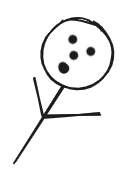
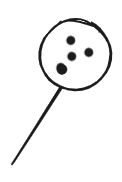
correct guesses are displayed and displaying the wrong guesses

Changed region(s): [[0.0738, 0.0824, 0.9344, 0.9066], [0.4426, 0.1648, 0.7869, 0.4121]]

diff --git a/js/main.js b/js/main.js
@@ -1,6 +1,16 @@
 /*----- constants -----*/
 const wordArray = ['fun', 'running', 'sound', 'aaaaaaa'];
 
+// const spaceman = {
+//     '0': '',
+//     '1': '../images/1.png',
+//     '2': '../images/2.png',
+//     '3': '../images/3.png',
+//     '4': '../images/4.png',
+//     '5': '../images/5.png',
+//     '6': new URL('../images/6.png')
+// }
+
 /*----- state variables -----*/
 let guessesleft, playerguesses, secretWord;
 
@@ -9,23 +19,13 @@ const guess = document.querySelector('input');
 const message = document.querySelector('main > h1');
 const letters = document.getElementById('word');
 const letterguess = document.querySelector('input').value;
-const wrongletters = {};
+const wrongletters = [];
 
 /*----- event listeners -----*/
 document.getElementById('wordbuild').addEventListener('click', buildguess);
-// document.getElementById('guessselect').addEventListener('click', guessCheck(letterguess));
+
 document.querySelector('*').addEventListener('keypress', keyPressEvt);
 /*----- functions -----*/
-// function guessCheck() {
-//     secretWord.split('').forEach(char => {
-//         if (letterguess.toLocaleLowerCase() === char) {
-
-//         } else {
-//             guessesleft - 1
-
-//         }
-//     })
-// }
 
 function chooseWord() {
     let i = Math.floor(Math.random() * wordArray.length);
@@ -37,26 +37,23 @@ function rednerWord(secretWord) {
         const div = document.createElement('div');
         div.setAttribute('id', `${i}`)
         word.appendChild(div);
-        const newdiv = document.getElementById(`${i}`);
-        newdiv.setAttribute('value', `${secretWord[i]}`);
     }
 }
 
-render();
+init();
 
-function render() {
-    // setupBoard();
-    // displaySpaceman();
-    // displayMessage();
+function init() {
     chooseWord();
     rednerWord(secretWord);
+    guessesleft = 3;
+    displaySpaceman()
 }
 function buildguess() {
     const word = document.getElementById('word');
     while (word.lastElementChild) {
         word.removeChild(word.lastElementChild);
     }
-    render();
+    init();
 }
 
 function keyPressEvt(keyedin) {
@@ -64,6 +61,9 @@ function keyPressEvt(keyedin) {
     const letter = secretWordArr.find((element) => element === keyedin.key);
     if (letter === undefined) {
         wrongletters.push(keyedin.key);
+        document.getElementById('wrongletters').innerHTML = ` ${wrongletters}`;
+        guessesleft--;
+        displaySpaceman()
     } else {
         for (let i = 0; i < secretWordArr.length; i++){
             if (secretWordArr[i] === keyedin.key) {
@@ -77,5 +77,6 @@ function keyPressEvt(keyedin) {
 }
 
 function displaySpaceman() {
-    const spaceman = querySelector('main > div > img');
+    // const spaceman = document.querySelector('main > div > img');
+    // spaceman.setAttribute('src', `${spaceman[guessesleft]}`);
 }

diff --git a/index.html b/index.html
@@ -14,7 +14,8 @@
     <main>
         <h1>Hang Man</h1>
         <h2></h2>
-        <div><img src="images/0.png"></div>
+        <div id="wrongletters"></div>
+        <div><img src=""></div>
         <div id="word">
         </div>
     </main>

diff --git a/css/main.css b/css/main.css
@@ -3,6 +3,11 @@ h1 {
     font-family: 'Open Sans', sans-serif;
     font-family: 'Silkscreen', sans-serif;
 }
+
+#wrongletters {
+    font-size: 40px;
+}
+
 #word {
     display: flex;
     align-items: center;
